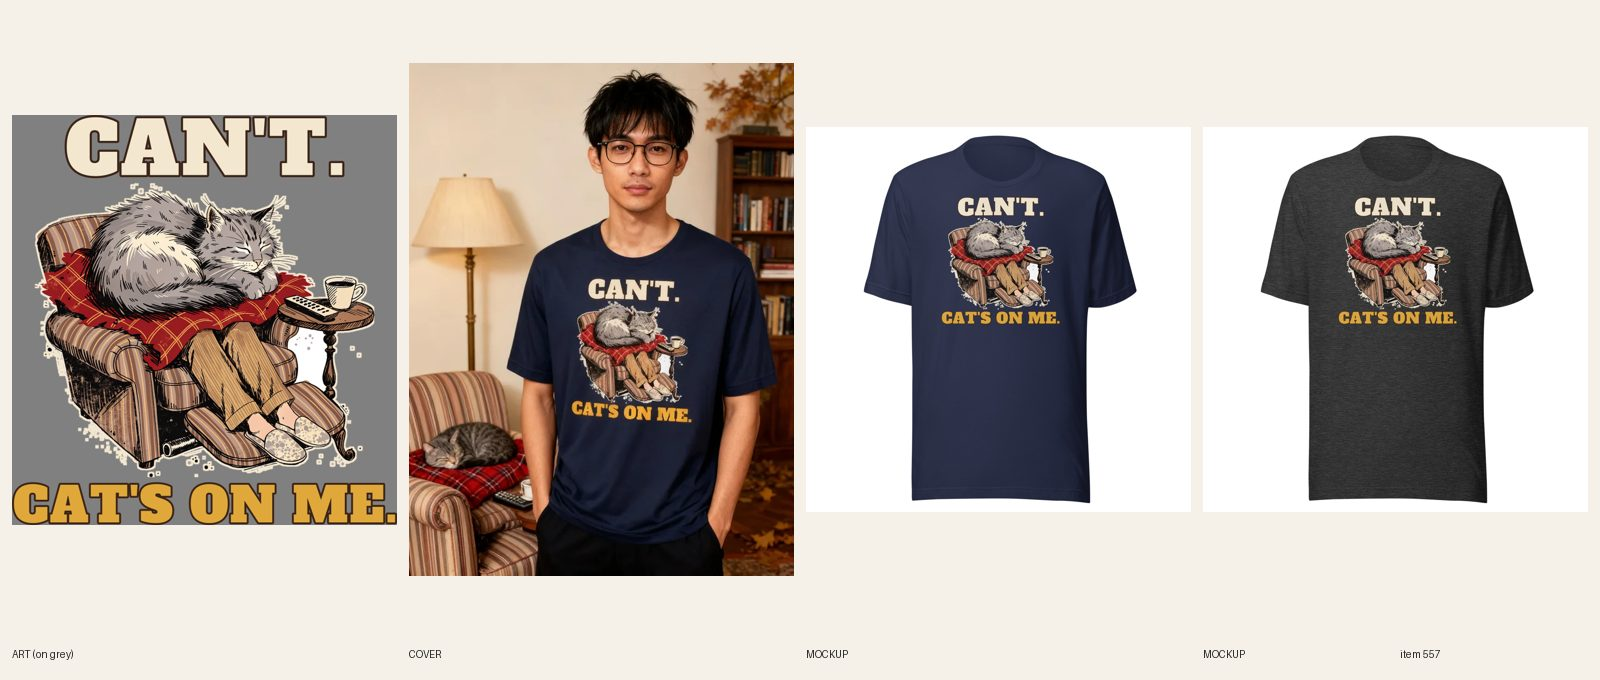
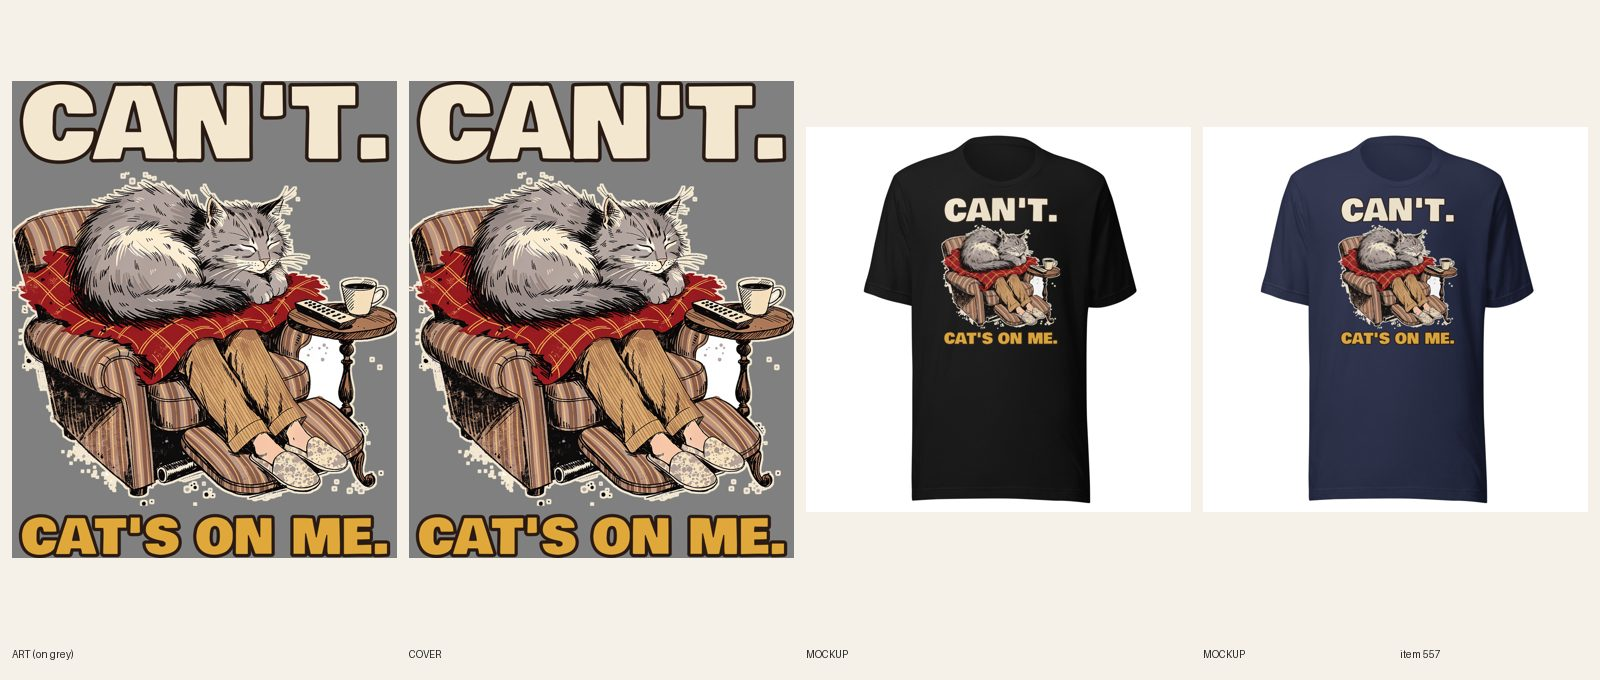
[E] review 557 Cat Dad tee (type redo)
Claude-Session: https://claude.ai/code/session_019GiLVqMWqvwchpnbwrAo8t

diff --git a/docs/intake-log.md b/docs/intake-log.md
@@ -1,12 +1,12 @@
 RUNNING lane C since 2026-10-19 16:54 UTC
-RUNNING lane E since 2026-10-19 16:46 UTC
 2026-10-19 16:47 UTC — [H] Helper run: Telegram inbox empty (getUpdates returned 0 updates; nothing to consume, no pause or resume). Audit (598 live products): 0 errors, 30 warnings left alone (polish). Price errors 0, so the announcement bar already carries the holiday line. Category check: 0 products without a category. Site check: 3 newest LIVE pages (womens-cat-making-biscuits-hoodie, unisex-national-park-switchbacks-build-character-heavyweight-hoodie, unisex-christmas-card-photo-survivor-graphic-tee) return 200. Stuck work: none (one BUILDING item, #557 from 16:46; all lane locks under 2 hours). Daily summary not due (sent 16:05). Installed node_modules with npm ci so the audit could run. Lock released.
+2026-10-19 17:12 UTC — [E] Builder run: redid #557 Cat Dad tee (type only: Bowlby One cream CAN'T. / mustard CAT'S ON ME. lockup at full art width, same cat art, FW 1650, 28/28 resynced, 4 fronts replaced in place, plain product shot). REVIEW. fal $0. 1 redo per run cap reached. Lock released.
+RUNNING helper since 2026-10-19 16:45 UTC
 2026-10-19 17:00 UTC — [A] Builder run: redid #274 Card Photo Survivor crewneck (ported approved #273 TAKE 41. / STILL SMILING. print, FW 1650, Navy on a light-ink file, 24/24 relinked, 4 fronts replaced in place, plain product shot). REVIEW. fal $0. Lock released.
 RUNNING lane B since 2026-10-19 16:30 UTC
 RUNNING director since 2026-10-19 16:16 UTC
 2026-10-19 16:56 UTC — [B] Builder run: redid #370 Mountains Called hoodie again (restacked 4-line lockup, separate dark-ink Sand file, FW 1500, 12/12 synced, Sand+Navy fronts replaced in place). REVIEW. fal $0. Lock released.
 2026-10-19 16:24 UTC — [E] Builder run: redid #490 Plans Canceled. Mood Improved. hoodie (type only: Bevan orange/cream lockup at about full art width, same cat art, FW 1500, 12/12 synced, Sand+Navy fronts replaced in place, plain product shot). REVIEW. fal $0.
-RUNNING lane E since 2026-10-19 16:18 UTC
 2026-10-19 16:47 UTC — [D] Director run (RESUMED). Inbox: nothing new needing action. Reviewed the 8 new REVIEW sheets (all quality-reset type redos). LIVE 6 (cap): #394 #239 #282 #244 #403 (redos, already ACTIVE) and #599 (approved last run; set ACTIVE + Online Store, Headless, Google & YouTube); audit --handle PASS 0 warn each; side-by-side verdicts vs 493/479/483 in each pipeline file. Shopify fixes: #394 Story said "groovy 1970s letters" (now heavy capitals) and carried the cat-hoodies tag on a crewneck (removed, R7.5); #244 SEO title and meta still named the old NANA'S COOKIES / RECIPE NOT AVAILABLE print (rewritten). REDO: #370 Mountains Called (both lines still thin bars; restack + dark Sand file), #441 Eight Arms (cream headline vanishes on Dust, R5.3.8; 6th light-blank hit, so R5.3.8 now lists which blanks count as light). Port shortcuts: #567 oversized hoodie ports #282's new print; #240 crewneck set to REDO to port #239's new print so the pair matches. Briefs: none; lane A stays at 9 READY (RankHero returned no volume for any unclaimed Christmas garment phrase measured this run; R2.1 no measurement, no build; lane A has 42 REDOs ahead of READY anyway). B 12 / C 12. Still waiting for the cap: the ~37 approved add-ons and A-grade items at REVIEW (next: #582, #633, #634, #651, #653, #654). Digest not due (midday sent 12:20). Lock released.
 2026-10-19 16:13 UTC — [A] Builder run: redid #244 Nana's Cookies crewneck (ported approved #245 THE RECIPE / DIES WITH ME. print, FW 1650, 30/30 relinked, 5 fronts replaced, plain product shot). REVIEW. fal $0. 1 redo per run cap reached. Lock released.
 RUNNING lane C since 2026-10-19 15:56 UTC

diff --git a/docs/pipeline/557-cat-dad-tee-cant-cats-on-me.md b/docs/pipeline/557-cat-dad-tee-cant-cats-on-me.md
@@ -1,4 +1,4 @@
-status: BUILDING [E] 2026-10-19T16:46
+status: REVIEW
 lane: E
 type: new
 id: 557
@@ -32,3 +32,4 @@ kd: 47
 - 2026-10-18 08:41 UTC builder [E]: sync 28/28 confirmed. REVIEW.
 - 2026-10-18 09:22 UTC director: LIVE. approved from docs/review/557.jpg (cat-on-lap joke reads in 2 s; cover man with a cat in the room). Copy: FAQ said the print was 'in dark colors'; now names cream, mustard and rust inks on four dark shirts (R8.3). ACTIVE + Online Store/Headless/Google & YouTube, audit --handle PASS (0 warn).
 - 2026-10-18 17:22 UTC director: QUALITY RESET grade B (type only), REDO. The product stays ACTIVE (same handle, URL, title keyword). Keep the line "CAN'T. / CAT'S ON ME." and the art. 1. Type: Headline CAN'T only ~65% width; second line visually louder than headline. 2. Quality reset type bar (docs/backlog/quality-reset.md, 'The new bar'): headline at least 90% of the art width, heavy, colors pulled from the art; second line at least 45% of the headline's height, never a thin script on a dark or mid garment; use the lettering as a shape (arch, stacked lockup, words breaking into the art), not a plain bar above and a script line below; no font used on more than 1 in 6 of the last 30 designs. 3. New print file means a new cover per R6.10 and a fresh review sheet (R7.7). While quality-reset.md says PAUSED, only lane A builds, and only the samples step 2 names.
+- 2026-10-19 17:10 UTC builder [E]: REDO type-only done. Same cat art (old bars cropped off), new lockup designs/e557/spec.json: CAN'T. cream #f3e7cf in Bowlby One at ~100% of art width (about 1.6x taller than before), CAT'S ON ME. mustard #e0a83a Bowlby One at full art width, dark #2a1b14 keylines. Print 2880 x 3567 px; Printful file 1089674168, FW 1650 TOP 75, resynced 28/28 (back logo kept). 4 fronts replaced in place in Shopify (fileUpdate; back unchanged). Light-file check: all four colors are dark, no light file needed. Cover: plain product shot (handle already in retired-covers.json). Phone-size read: both lines clear on Black and Navy. Copy unchanged (still accurate). Audit PASS 0 warn, design-crops rerun. fal $0. Sheet docs/review/557.jpg. Set REVIEW.
